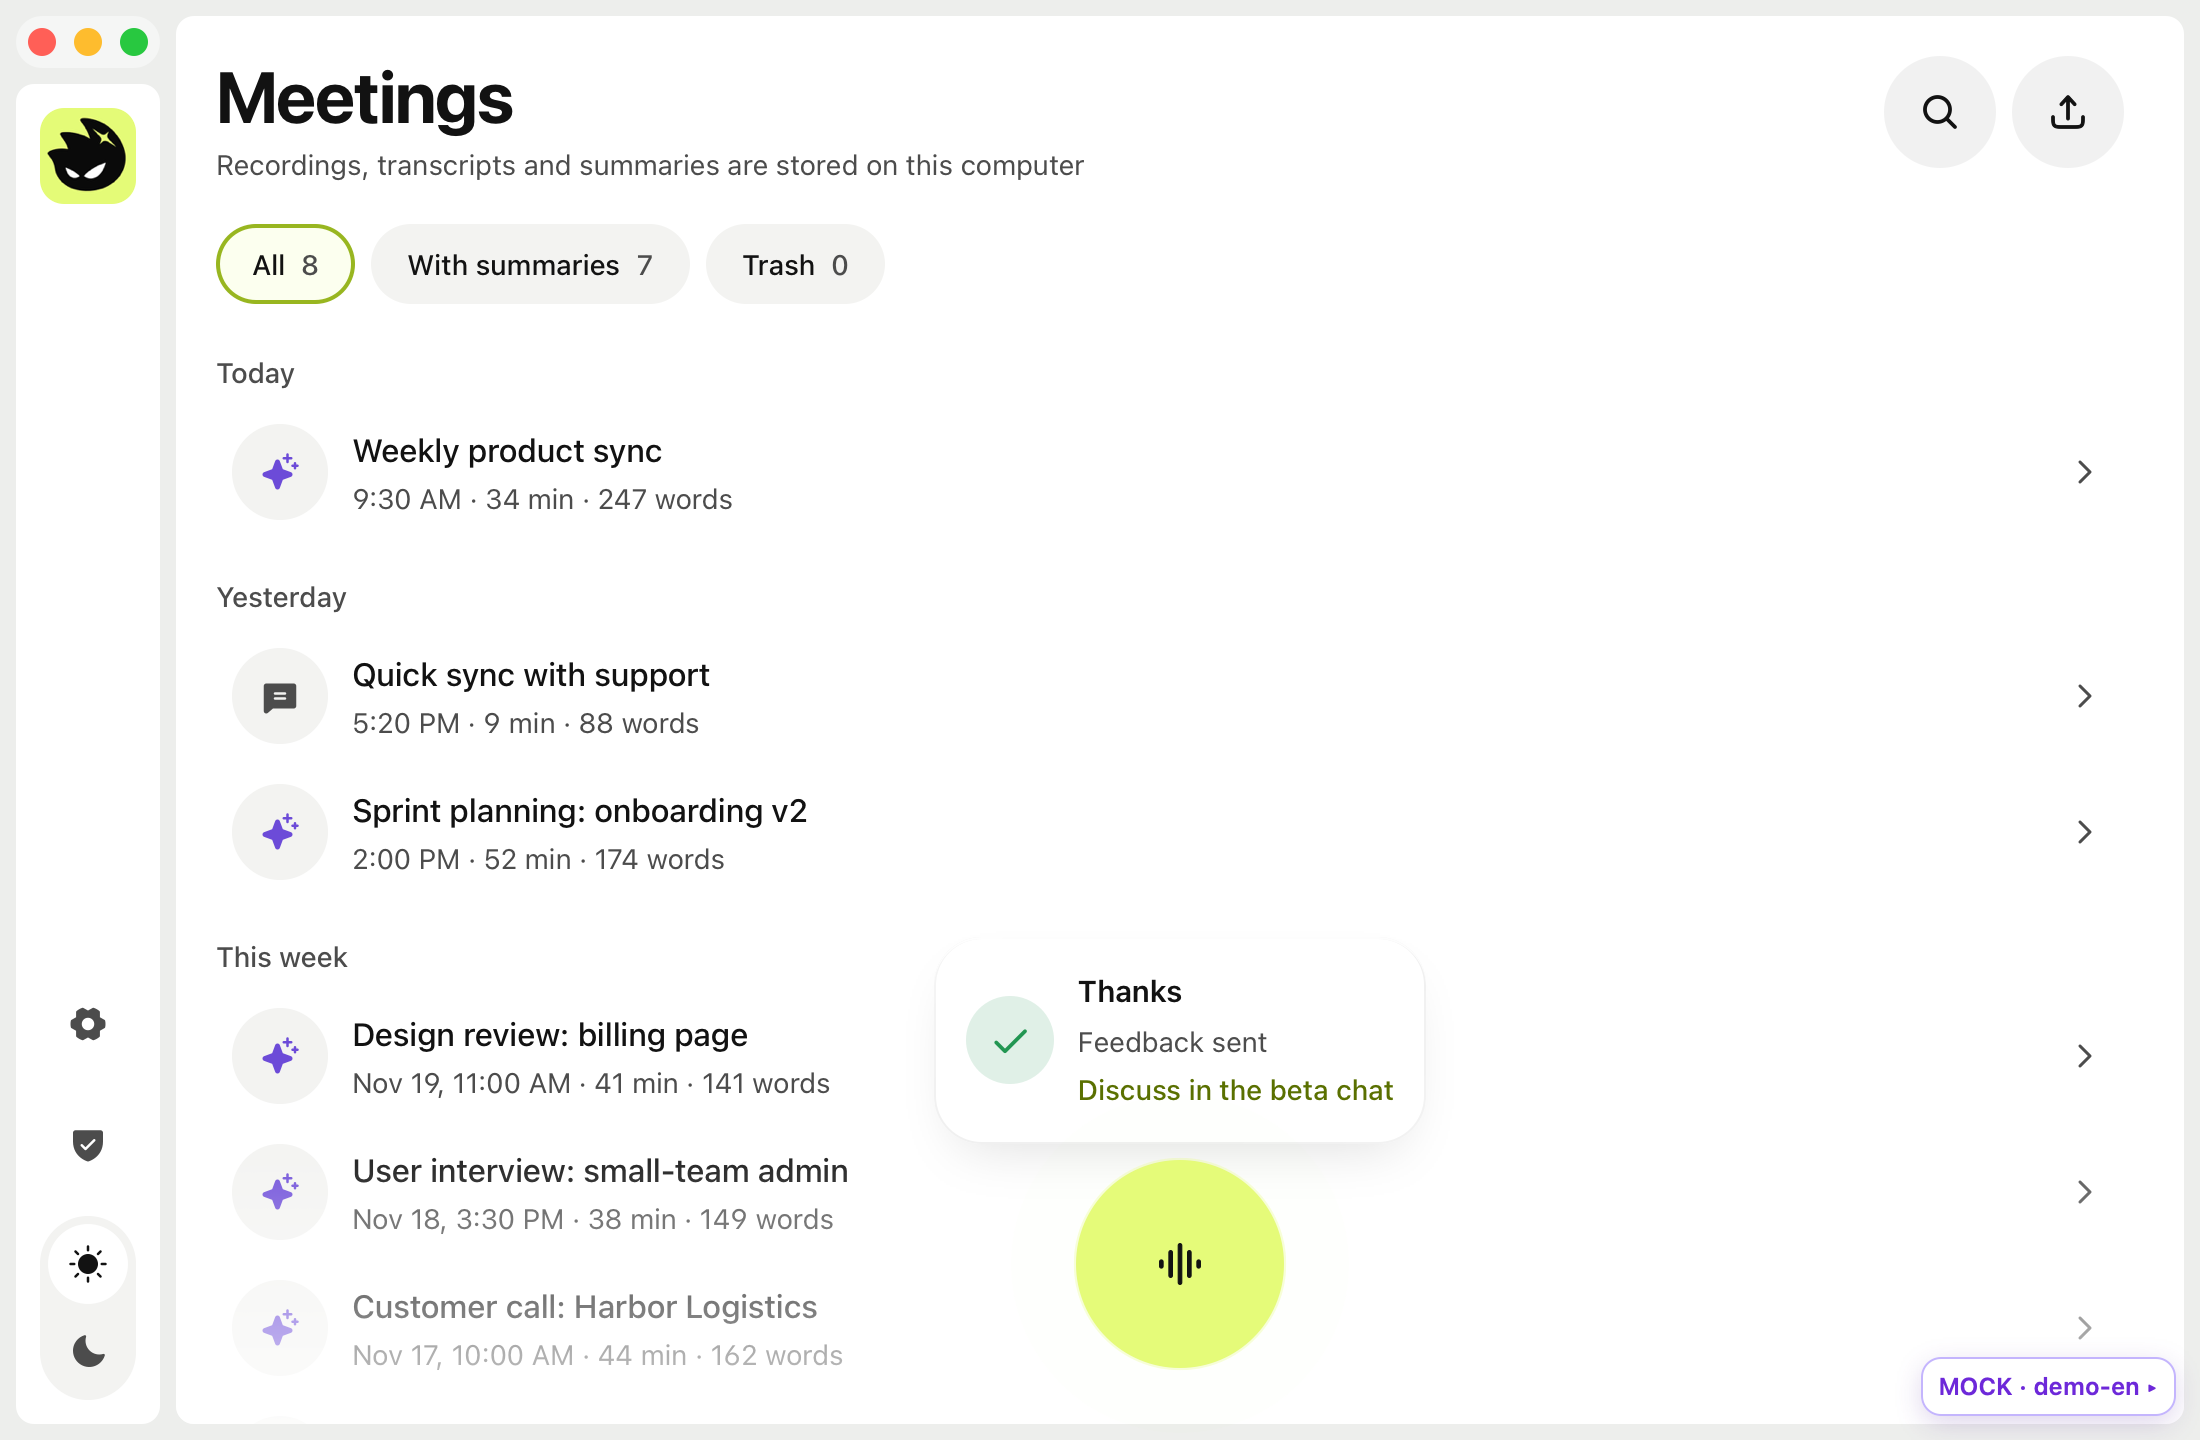
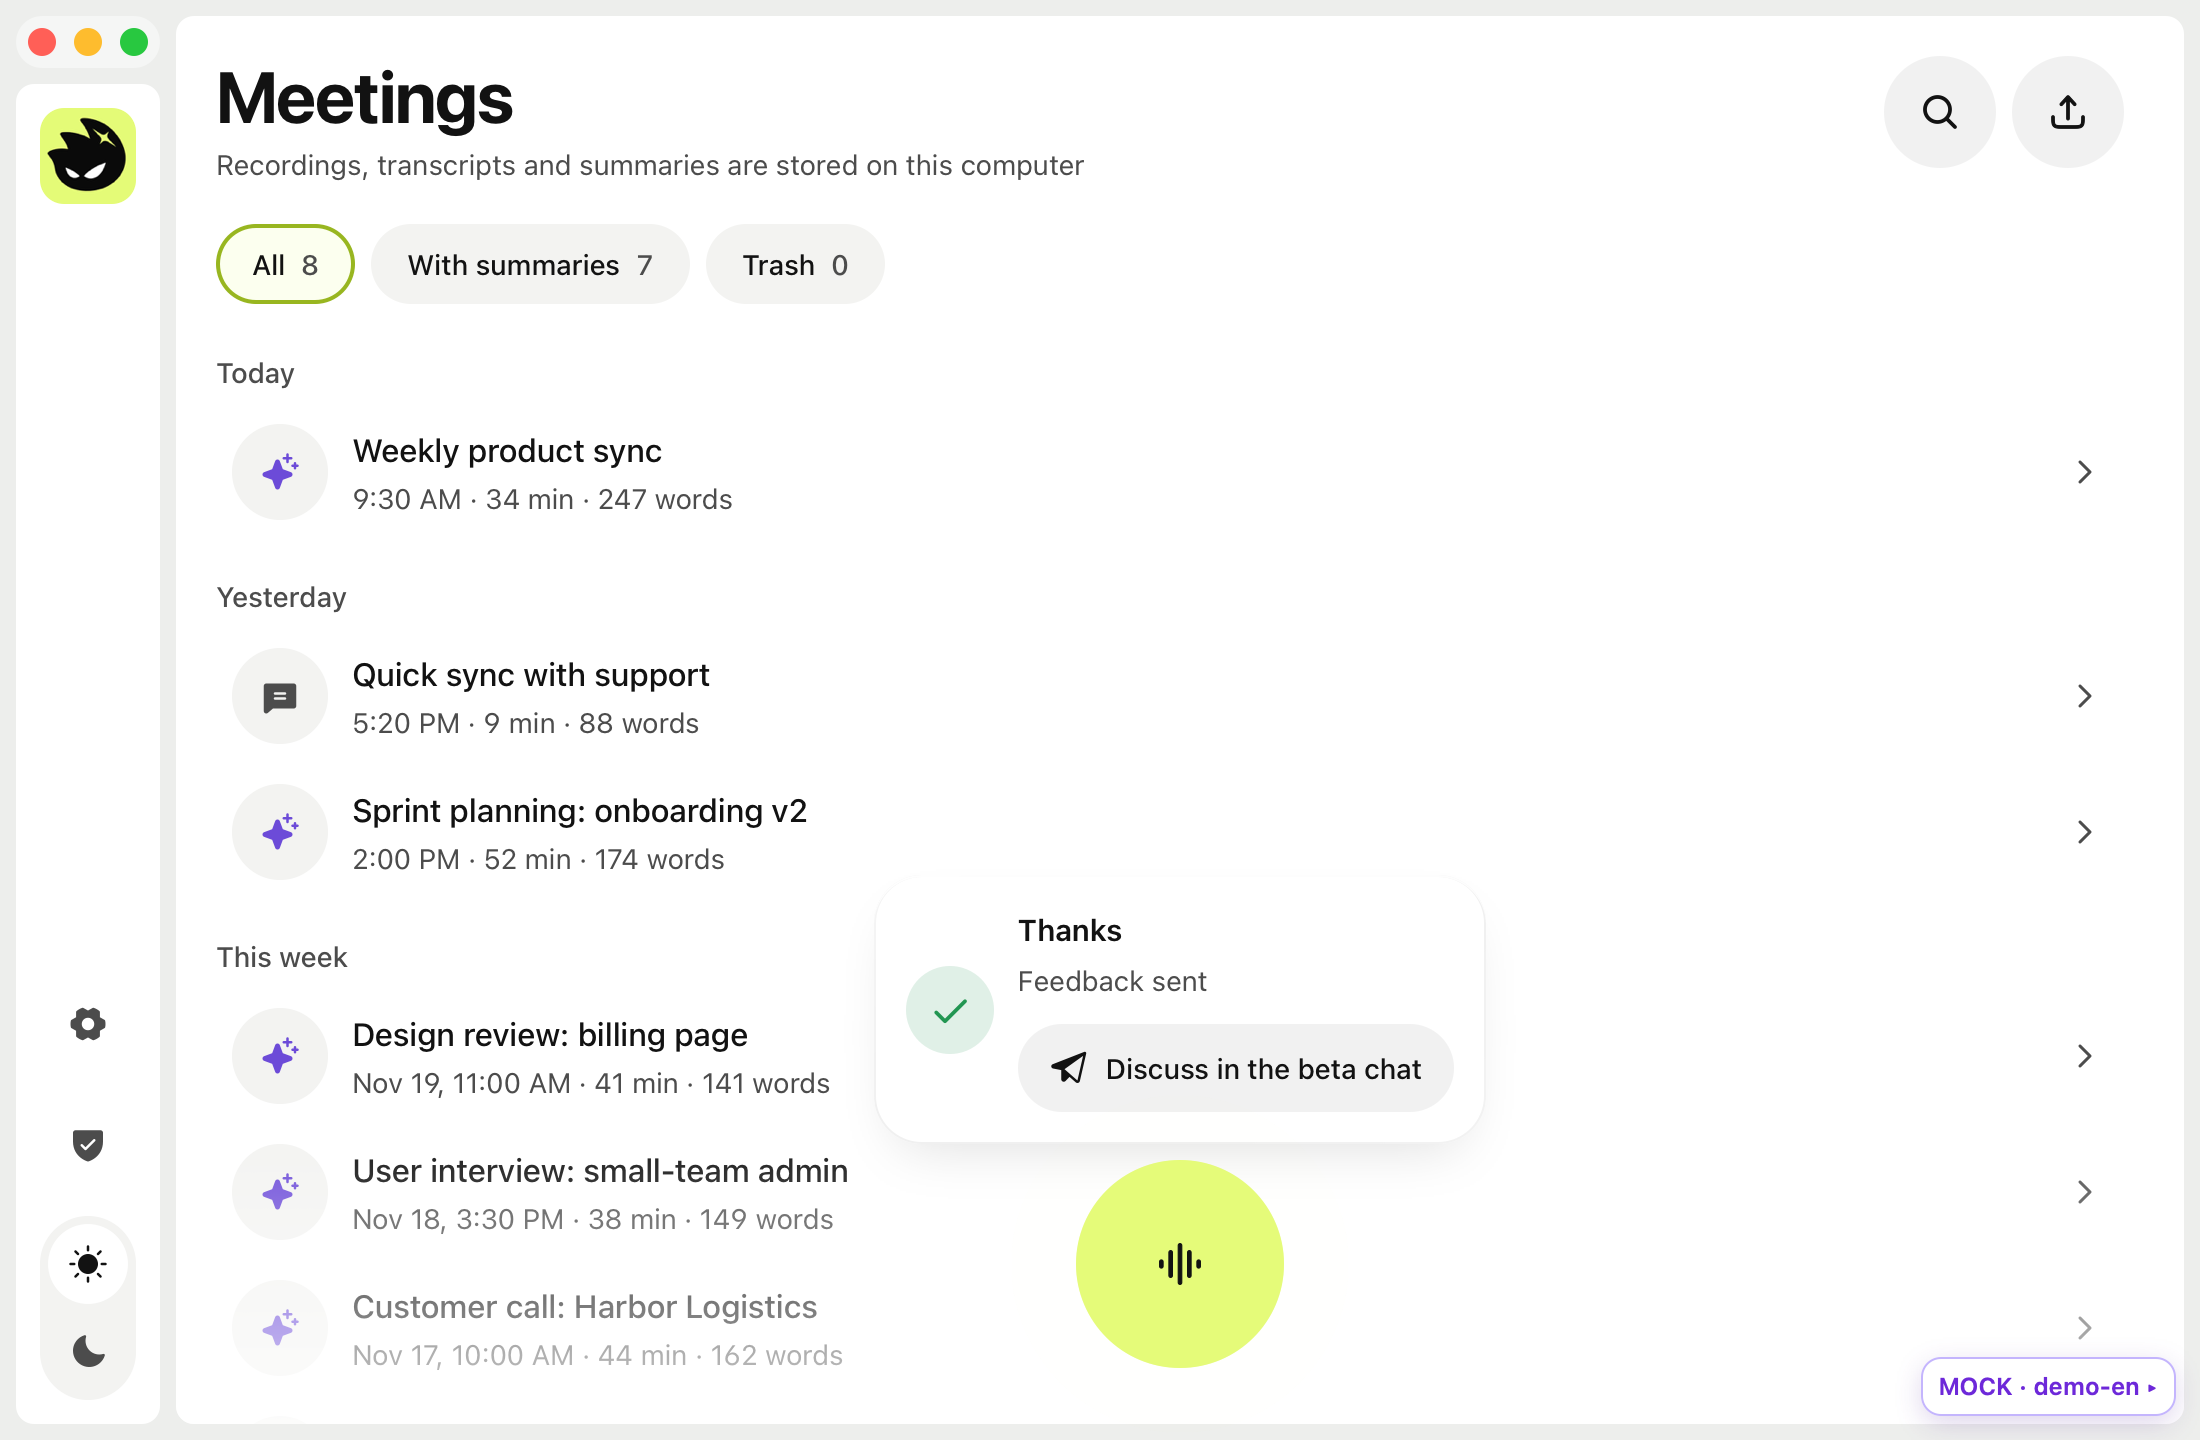
Чат беты кнопкой со знаком Telegram; три звезды «Норм»
«Обсудить в чате беты» теперь вторичная кнопка с TelegramLogo в заливке,
подложка NOTICE_SECONDARY (как у кнопок уведомлений): bg-muted в тёмной теме
сливался со стеклом карточки. В форме 48 px рядом с «Отправить», в плашке
«Спасибо» 44 px под текстом. Подпись трёх звёзд «Хорошо» → «Норм» (en: Okay).

Changed region(s): [[0.4018, 0.625, 0.6491, 0.7812]]

diff --git a/frontend/src/shade/components/feedback/FeedbackCard.tsx b/frontend/src/shade/components/feedback/FeedbackCard.tsx
@@ -11,7 +11,7 @@
 //  - Не ушло (нет сети, функция не настроена): «Не получилось отправить, попробуем позже», отзыв в
 //    очереди. Звезды на GitHub в карточке нет (будет отдельной иконкой).
 //  - Уходит из дока с тем видом, что был виден последним: шаг «закрыто» звёзды не возвращает.
-//  - Рядом с «Отправить» ссылка «Обсудить в чате беты», если адрес задан (lib/beta-chat.ts). В плашках
+//  - Рядом с «Отправить» кнопка «Обсудить в чате беты» со знаком Telegram, если адрес задан (lib/beta-chat.ts). В плашках
 //    «не получилось» ссылки нет: сети нет, чат тоже не откроется.
 'use client';
 
@@ -31,6 +31,8 @@ import { useLang } from '@/shade/lib/lang';
 import { t } from '@/shade/strings';
 import { invoke } from '@tauri-apps/api/core';
 import { betaChatUrl } from '@/shade/lib/beta-chat';
+import { TelegramLogo } from '@phosphor-icons/react';
+import { NOTICE_SECONDARY } from '@/shade/components/ui/notice';
 import { shadeToast } from '@/shade/lib/toasts';
 
 function openBetaChat(url: string) {
@@ -149,13 +151,14 @@ export function FeedbackCard({ onDone, initial }: { onDone: () => void; initial?
                   chatInPlaque &&
                   chat && (
                     <Button
-                      variant="link"
-                      className="mt-1 h-auto p-0 text-sm"
+                      variant="secondary"
+                      className={cn(NOTICE_SECONDARY, 'mt-3 px-4 text-sm font-medium')}
                       onClick={() => {
                         openBetaChat(chat);
                         dispatch({ type: 'close' });
                       }}
                     >
+                      <TelegramLogo weight="fill" />
                       {t('betaChat')}
                     </Button>
                   )
@@ -194,7 +197,8 @@ export function FeedbackCard({ onDone, initial }: { onDone: () => void; initial?
                       {sending ? t('feedbackSending') : t('feedbackSend')}
                     </Button>
                     {chat && (
-                      <Button variant="link" className="px-2 text-sm" onClick={() => openBetaChat(chat)}>
+                      <Button variant="secondary" className={cn(NOTICE_SECONDARY, 'h-12 px-4 text-sm font-medium')} onClick={() => openBetaChat(chat)}>
+                        <TelegramLogo weight="fill" />
                         {t('betaChat')}
                       </Button>
                     )}

diff --git a/frontend/src/shade/strings.ts b/frontend/src/shade/strings.ts
@@ -455,7 +455,7 @@ export const ru = {
   feedbackRate0: 'Нажмите на звезду',
   feedbackRate1: 'Плохо',
   feedbackRate2: 'Так себе',
-  feedbackRate3: 'Хорошо',
+  feedbackRate3: 'Норм',
   feedbackRate4: 'Отлично',
   feedbackRate5: 'Очень нравится',
   feedbackStar: { one: '{n} звезда', few: '{n} звезды', many: '{n} звёзд', other: '{n} звезды' },
@@ -924,7 +924,7 @@ export const en: Mirror<RuDict> = {
   feedbackRate0: 'Click a star',
   feedbackRate1: 'Bad',
   feedbackRate2: 'So-so',
-  feedbackRate3: 'Good',
+  feedbackRate3: 'Okay',
   feedbackRate4: 'Great',
   feedbackRate5: 'Love it',
   feedbackStar: { one: '{n} star', other: '{n} stars' },

diff --git a/docs/ui/feedback.md b/docs/ui/feedback.md
@@ -10,7 +10,7 @@
 
 ## Чат беты
 
-Ссылка «Обсудить в чате беты» (en: «Discuss in the beta chat») открывает https://t.me/shadebeta в браузере. Где видна: рядом с «Отправить» в форме «Что улучшить?» и под «Отзыв отправлен» в плашке «Спасибо» (решение владельца 21.11.2026: после 3-5 звёзд формы нет, иначе ссылку не видно). Плашка со ссылкой держится 6 с (`CHAT_HOLD_MS`), а пока на карточке указатель или фокус, не уходит; ушёл указатель, отсчёт заново. Щелчок по ссылке открывает чат и убирает карточку. Ссылка вне `role="status"`: чтение с экрана объявляет только итог. В плашках «Не получилось отправить» ссылки нет: без сети чат тоже не откроется. Адрес в одной константе `lib/beta-chat.ts` (`BETA_CHAT_URL`); пустая строка убирает ссылку из приложения, README и описания релиза. Сменить адрес: вписать ссылку `https://t.me/…` в константу и в README между `<!-- beta-chat -->` и `<!-- /beta-chat -->`; `lib/beta-chat.test.ts` не пропустит расхождение, описание релиза подхватит константу само.
+Вторичная кнопка «Обсудить в чате беты» (en: «Discuss in the beta chat») со знаком Telegram в заливке (`TelegramLogo`, fill, 20 px; подложка `NOTICE_SECONDARY`, как у кнопок уведомлений: видна на стекле в обеих темах; в форме рядом с «Отправить», в плашке под текстом) открывает https://t.me/shadebeta в браузере. Где видна: рядом с «Отправить» в форме «Что улучшить?» и под «Отзыв отправлен» в плашке «Спасибо» (решение владельца 21.11.2026: после 3-5 звёзд формы нет, иначе ссылку не видно). Плашка со ссылкой держится 6 с (`CHAT_HOLD_MS`), а пока на карточке указатель или фокус, не уходит; ушёл указатель, отсчёт заново. Щелчок по ссылке открывает чат и убирает карточку. Ссылка вне `role="status"`: чтение с экрана объявляет только итог. В плашках «Не получилось отправить» ссылки нет: без сети чат тоже не откроется. Адрес в одной константе `lib/beta-chat.ts` (`BETA_CHAT_URL`); пустая строка убирает ссылку из приложения, README и описания релиза. Сменить адрес: вписать ссылку `https://t.me/…` в константу и в README между `<!-- beta-chat -->` и `<!-- /beta-chat -->`; `lib/beta-chat.test.ts` не пропустит расхождение, описание релиза подхватит константу само.
 
 ## Когда карточка приходит (`lib/feedback/policy.ts`, `offerVerdict`)
 
